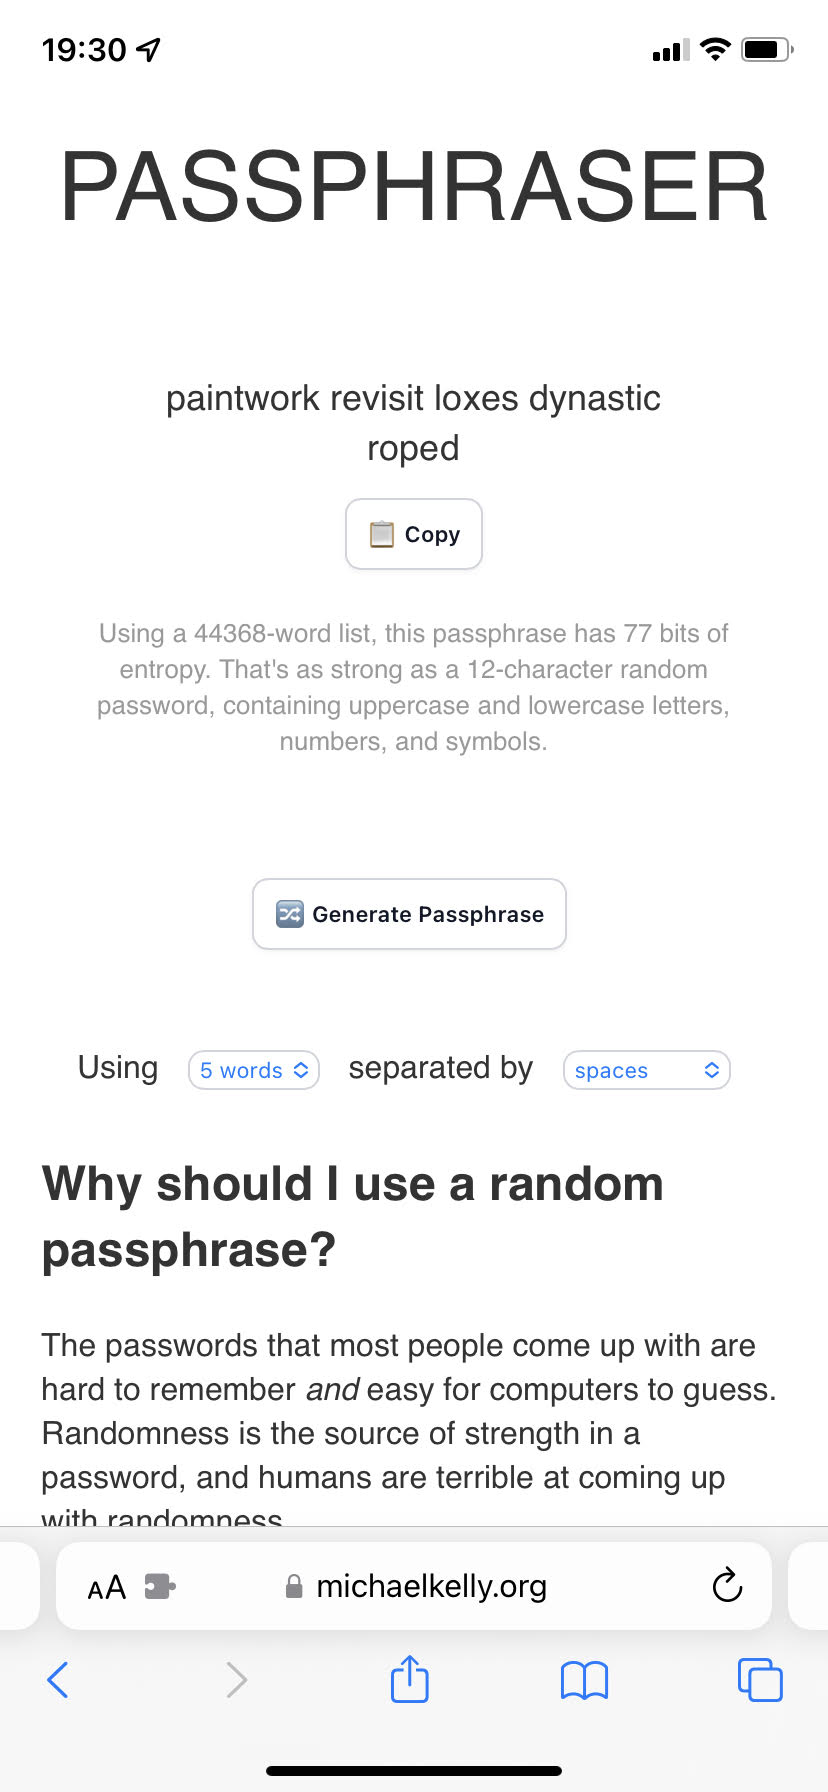
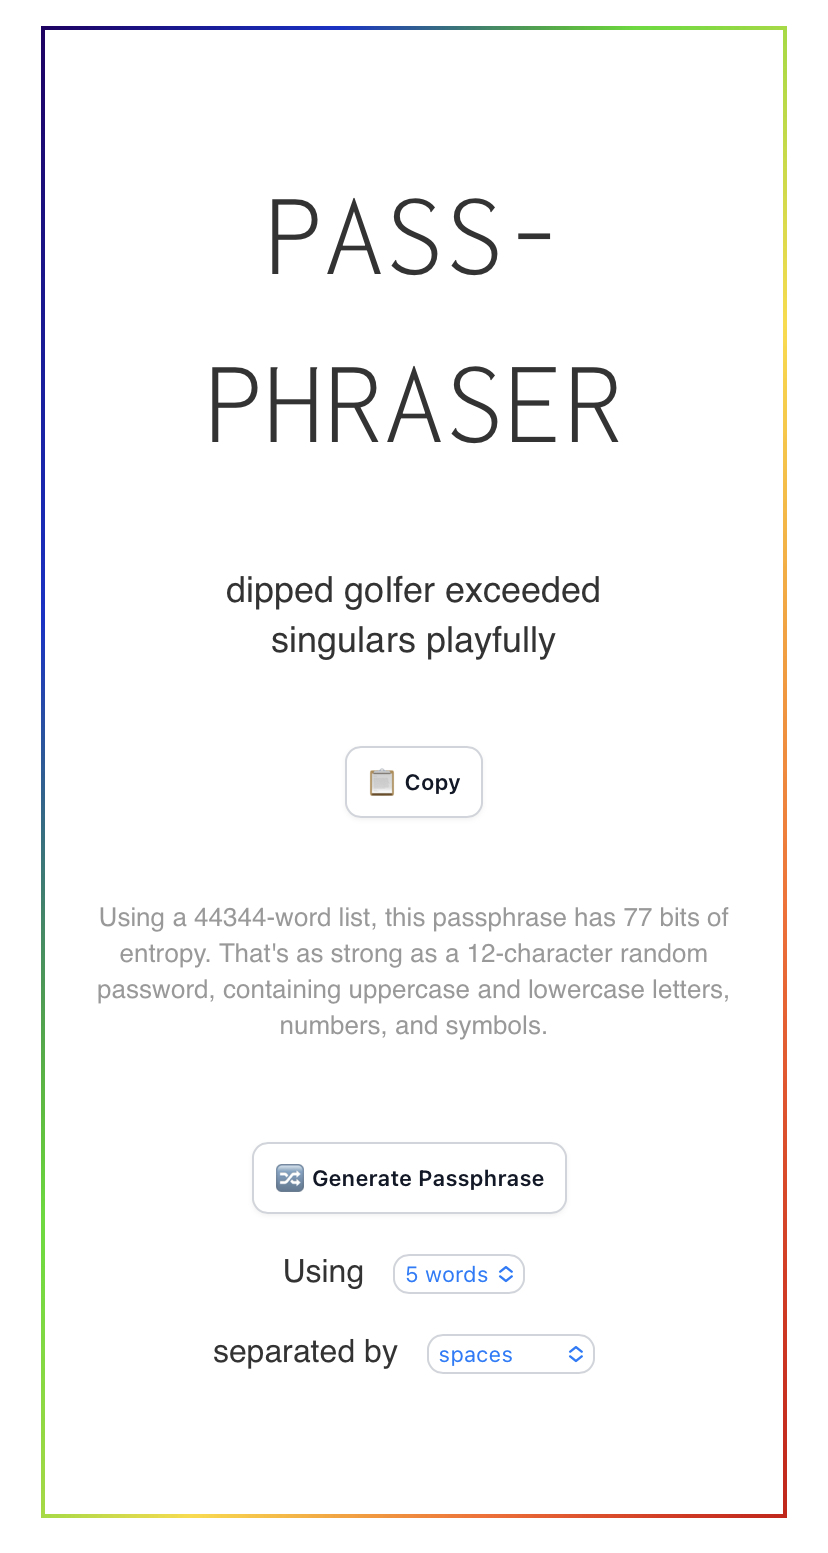
Update screenshots, mention new repo location

diff --git a/content/_index.md b/content/_index.md
@@ -40,7 +40,7 @@ Getting your password from a website feels a little sketchy. Here are some preca
 - Save this web page to your own computer then open it up in a browser, and it'll work just as well. This page loads no external resources.
 - Load up your local copy of this page in your browser while you're not connected to the internet.
 
-All the javascript that powers this page is inlined into the page, and is not minified -- you can open the page up and audit it yourself. The source materials for this page are all at <https://github.com/mjkelly/passphraser>. You can clone that repository and re-generate the page as well.
+All the javascript that powers this page is inlined into the page, and is not minified -- you can open the page up and audit it yourself. The source materials for this page are [on sourcehut](https://git.sr.ht/~mkelly/passphraser) (and [mirrored to GitHub](https://github.com/mjkelly/passphraser>)). You can clone that repository and re-generate the page yourself!
 
 ## What else can I do to increase my security online?
 
@@ -50,7 +50,7 @@ manager.
 
 Here two recommended password managers:
 - [1Password](https://1password.com/) (paid)
-- [BitWarden](https://bitwarden.com/) (free)
+- [BitWarden](https://bitwarden.com/) (free and paid plans)
 
 References for password manager recommendations:
 - [Wirecutter (New York Times), 2023](https://www.nytimes.com/wirecutter/reviews/best-password-managers/)
